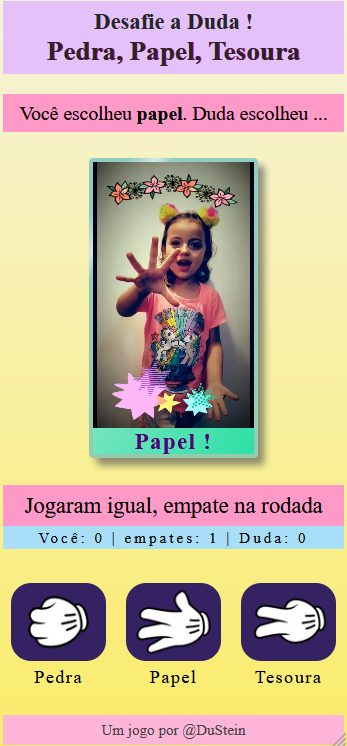
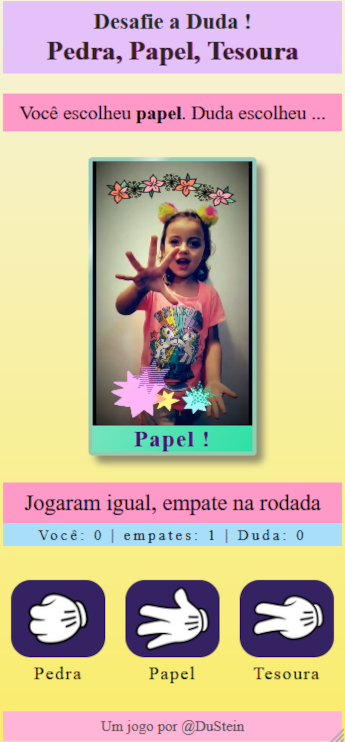
styling yet

diff --git a/index.html b/index.html
@@ -6,9 +6,9 @@
   <title>DuStein - developer</title>
   <link rel="stylesheet" href="static/style.css">
   <link rel="preconnect" href="https://fonts.googleapis.com">
-<link rel="preconnect" href="https://fonts.gstatic.com" crossorigin>
-<link href="https://fonts.googleapis.com/css2?family=Exo+2:ital,wght@0,100..900;1,100..900&family=Ubuntu&display=swap" rel="stylesheet">
-  <script src="https://kit.fontawesome.com/e3f0f30529.js" crossorigin="anonymous" defer></script>
+  <link rel="preconnect" href="https://fonts.gstatic.com" crossorigin>
+  <link href="https://fonts.googleapis.com/css2?family=Exo+2:ital,wght@0,100..900;1,100..900&family=Ubuntu&display=swap" rel="stylesheet">
+
   <script>
     function menuToggle() {
       let menu = document.querySelector(".links-menu");
@@ -23,8 +23,7 @@
 <body>
   <header>
     <div class="logo">
-      <i id="i-code" class="fa-solid fa-code"></i>
-      <span id="du">Du</span>Stein
+      <span id="logo-code">&lt;/&gt;</span><span id="du">Du</span>Stein
     </div>
 
     <div class="nav">
@@ -50,7 +49,8 @@
         <a href="#">
           <li>Contato</li>
         </a>
-      </ul>    </div>
+      </ul>    
+    </div>
 
   </header>
   <main>
@@ -74,11 +74,11 @@
       <h2>Projects</h2>
         <div class="sec-content">
           <div class="projects" id="project1">
-            <img src="static/media/ppt-duda-screenshot.png" alt="">
+            <img class="project-image" src="static/media/ppt-duda-screenshot.png" alt="Screenshot rock paper scissors game">
             <p class="project-description">Rock Paper Scissors Game</p>
             <p id="divisor">---  ---  ---  ---  ---</p>
           </div>
-          <div class="projects" id="project2">
+          <!-- <div class="projects" id="project2">
             <img src="media/cerva.bmp" alt="">
             <p class="project-description">Compare Prices Application</p>
             <p id="divisor">---  ---  ---  ---  ---</p>
@@ -87,16 +87,31 @@
             <img src="media/adv.bmp" alt="">
             <p class="project-description">Wordpress Site</p>
             <p id="divisor">---  ---  ---  ---  ---</p> 
-          </div>
+          </div> -->
         </div>
 
 
     </div>
     <div class="third">
       <ul>
-        <li><i class="fa-regular fa-envelope"></i><span class="botton-links"><a href="...">e-Mail</a></span></li>
-        <li><i class="fa-brands fa-linkedin"></i><span class="botton-links"><a href="https://www.linkedin.com/in/eduardo-s-7723701a3/">LinkedIn</a></span></li>
-        <li><i class="fa-brands fa-github"></i><span class="botton-links"><a href="https://github.com/dustein">Github</a></span></li>
+        <li>
+          <a class="botton-links" href="...">
+            <img class="symbols-svg" src="static/email.svg" alt="e-mail icon">
+            e-Mail
+          </a>
+        </li>
+        <li>
+          <a class="botton-links" href="...">
+            <img class="symbols-svg" src="static/linkedin.svg" alt="linkedin icon">
+            LinkedIn
+          </a>
+        </li>
+        <li>
+          <a class="botton-links" href="...">
+            <img class="symbols-svg" src="static/github.svg" alt="github icon">
+            e-Mail
+          </a>
+        </li>
       </ul>
     </div>
   </main>

diff --git a/static/style.css b/static/style.css
@@ -25,17 +25,18 @@ header {
   padding: 0.5em;
 }
 
-#i-code{
-  font-size: 1.2rem;
+#logo-code {
+  height: 3rem;
+  padding-right: 0.8rem;
 }
+
 
 li {
   list-style: none;
 }
 
 .logo {
-  font-size: 1.5rem;
-  /* letter-spacing: 0.2rem; */
+  font-size: 1.8rem;
   font-family: "Ubuntu", sans-serif;
 }
 
@@ -206,6 +207,10 @@ main {
   font-size: 2rem;
 }
 
+.project-image {
+  max-width: 60vw;
+}
+
 /* THIRD SECTION start */
 
 .third {
@@ -233,6 +238,15 @@ main {
 
 .botton-links {
   padding-left: 0.5rem;
+  font-size: 1.8rem;
+  display: flex;
+  align-items: center;
+  justify-content: center;
+}
+
+.symbols-svg {
+  height: 2rem;
+  padding-right: 1rem;
 }
 
 /* THIRD SECTION end */
